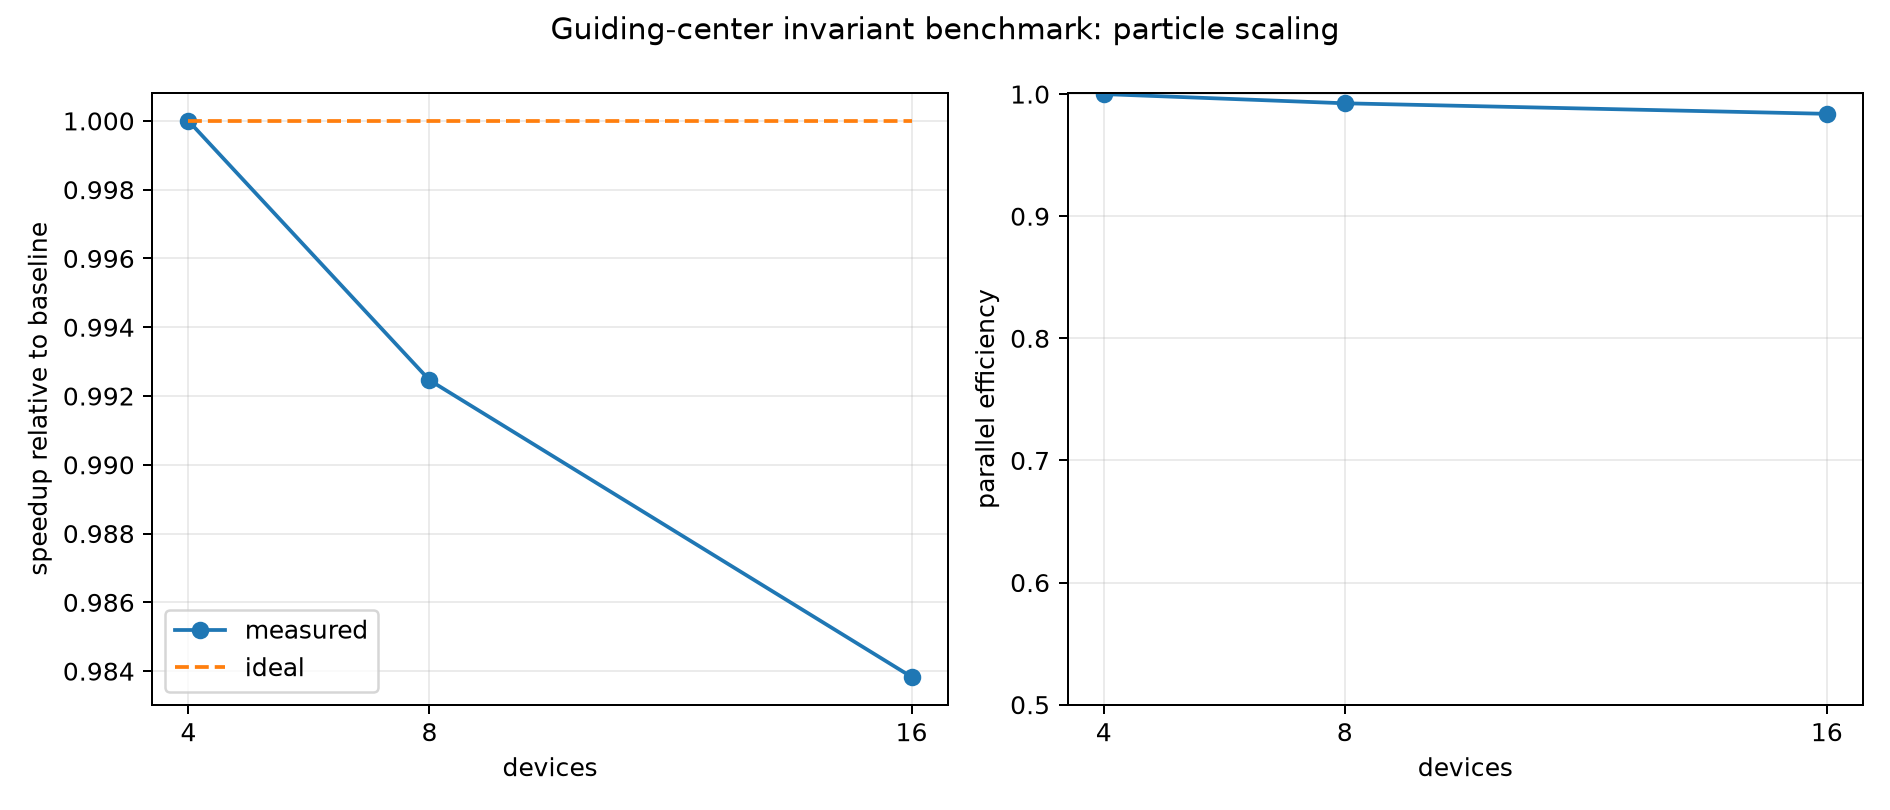
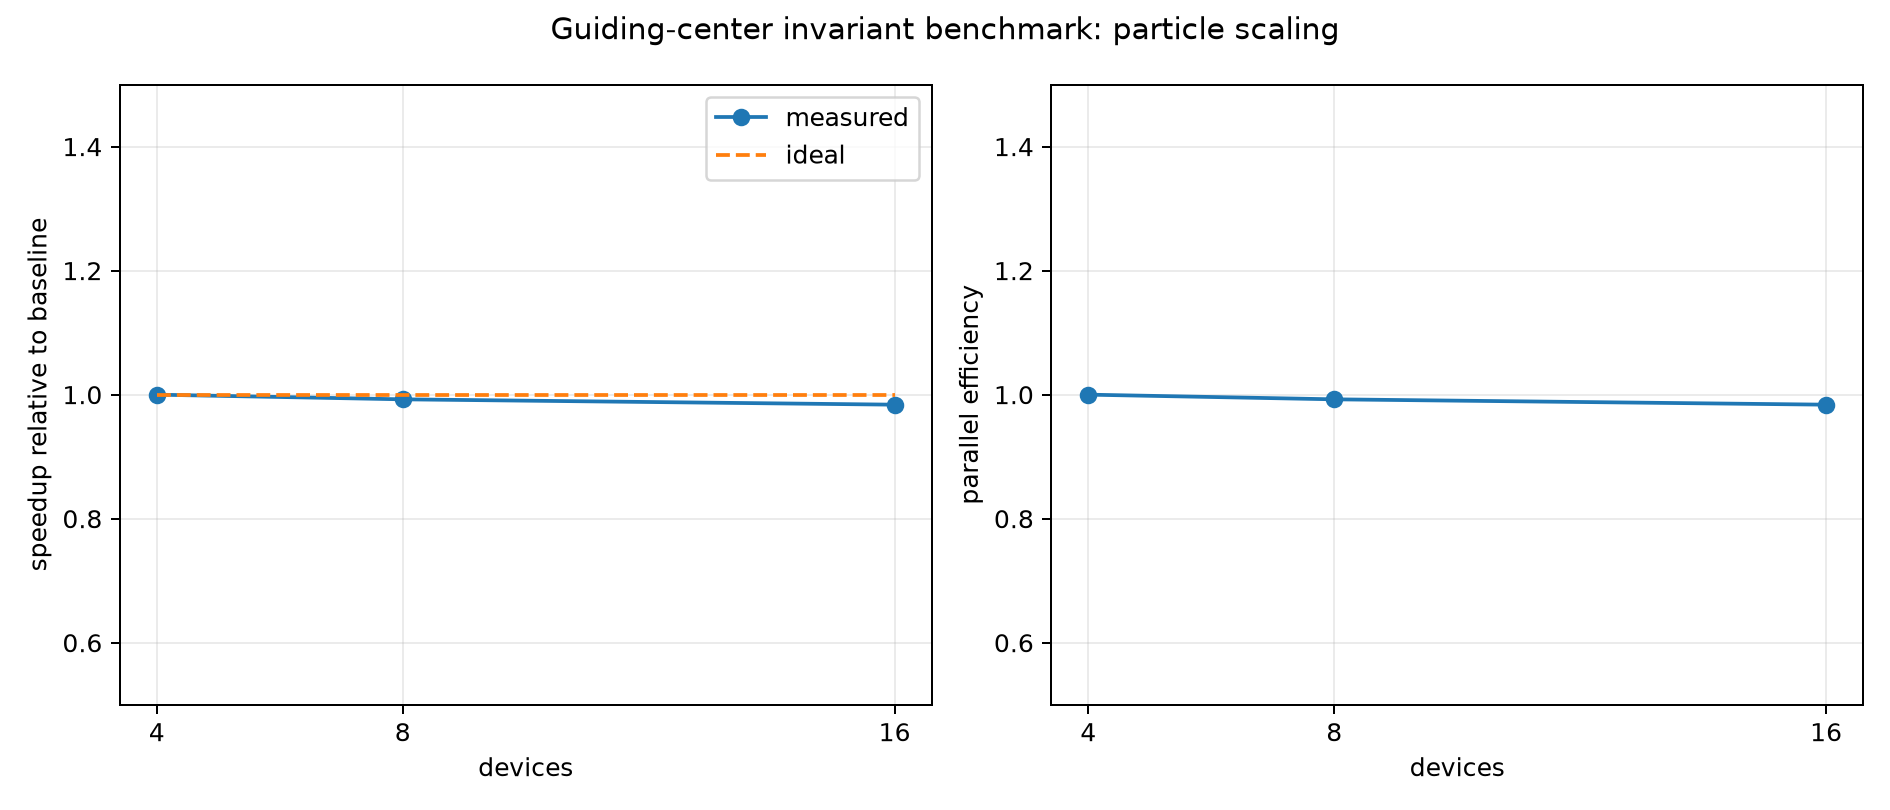
bench: center weak scaling plots on unity

diff --git a/benchmarks/one_d/invariant_conservation/run.py b/benchmarks/one_d/invariant_conservation/run.py
@@ -929,7 +929,7 @@ def _write_scaling_csv(path: Path, rows):
         writer.writerows({field: row[field] for field in fields} for row in rows)
 
 
-def _write_scaling_plot(path: Path, rows, efficiency_ymin=0.0):
+def _write_scaling_plot(path: Path, rows, y_limits=None):
     try:
         import matplotlib.pyplot as plt
     except ImportError:
@@ -945,13 +945,18 @@ def _write_scaling_plot(path: Path, rows, efficiency_ymin=0.0):
     axes[0].set_ylabel("speedup relative to baseline")
     axes[0].set_xlabel("devices")
     axes[0].set_xticks(devices)
+    if y_limits is not None:
+        axes[0].set_ylim(*y_limits)
     axes[0].grid(True, alpha=0.25)
     axes[0].legend()
     axes[1].plot(devices, efficiency, "o-")
     axes[1].set_ylabel("parallel efficiency")
     axes[1].set_xlabel("devices")
     axes[1].set_xticks(devices)
-    axes[1].set_ylim(bottom=efficiency_ymin)
+    if y_limits is None:
+        axes[1].set_ylim(bottom=0.0)
+    else:
+        axes[1].set_ylim(*y_limits)
     axes[1].grid(True, alpha=0.25)
     fig.suptitle("Guiding-center invariant benchmark: particle scaling")
     fig.tight_layout()
@@ -1276,7 +1281,7 @@ def main():
         _write_scaling_plot(
             plot_path,
             rows,
-            efficiency_ymin=0.5 if args.weak_scaling else 0.0,
+            y_limits=(0.5, 1.5) if args.weak_scaling else None,
         )
         _write_scaling_metadata(metadata_path, args, rows)
         print("\nParticle scaling")
